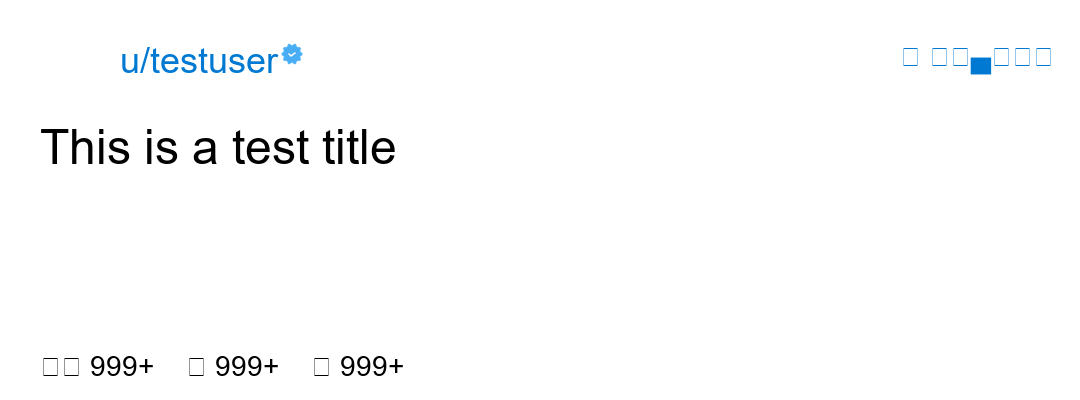
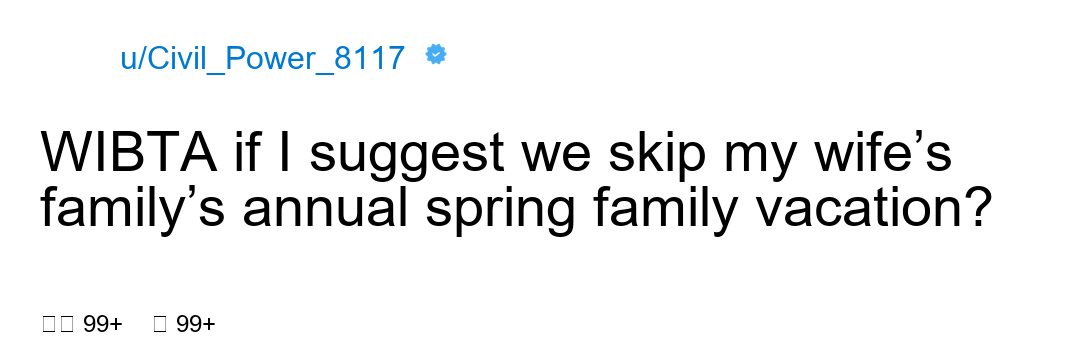
2025-04-19

diff --git a/src/media/graphic_gen.py b/src/media/graphic_gen.py
@@ -12,7 +12,7 @@ def clean_text(text):
 def generate_post_bubble(title, author, score, profile_pic_url=None, awards=[], filename="reddit_bubble.png"):
     title = clean_text(title)
     author = clean_text(author)
-    WIDTH, HEIGHT = 1080, 400
+    WIDTH, HEIGHT = 1080, 360
     BG_COLOUR = (255, 255, 255, 230)
     TEXT_COLOUR = (0, 0, 0)
     ACCENT = (0, 121, 211)
@@ -29,10 +29,9 @@ def generate_post_bubble(title, author, score, profile_pic_url=None, awards=[], 
             print(f"⚠ Font fallback: {font_name} failed ({e}), using default.")
             return ImageFont.load_default()
 
-    font_user = safe_font("arial.ttf", 36)
-    font_title = safe_font("arial.ttf", 48)
-    font_meta = safe_font("arial.ttf", 28)
-
+    font_user = safe_font("arial.ttf", 32)
+    font_title = safe_font("arial.ttf", 56)  # bolder, larger headline
+    font_meta = safe_font("arial.ttf", 24)  # slimmer meta row
     # Rounded rectangle background
     radius = 40
     draw.rounded_rectangle([0, 0, WIDTH, HEIGHT], radius=radius, fill=BG_COLOUR)
@@ -119,13 +118,52 @@ def generate_post_bubble(title, author, score, profile_pic_url=None, awards=[], 
         except Exception as e:
             print(f"⚠ Failed to load award icon: {e}")
 
-    # Likes / Comments / Shares
-    meta_text = "❤ 999+    💬 999+    🔁 999+"
+    # Likes / Comments
+    meta_text = "❤ 99+    💬 99+"
     draw.text((40, HEIGHT - 50), meta_text, fill=TEXT_COLOUR, font=font_meta)
 
-    # Audio bar (optional)
-    draw.text((WIDTH - 180, 40), "🔊 ▂▃▄▅▆▇", fill=ACCENT, font=font_meta)
 
     output_path.parent.mkdir(parents=True, exist_ok=True)
     img.save(output_path)
     return output_path.as_posix()
+
+
+import sys
+import os
+
+# Set TORCH_HOME to a directory inside your virtual environment
+os.environ["TORCH_HOME"] = os.path.join(os.path.dirname(sys.executable), "whisper_cache")
+
+from reddit.fetcher import fetch_top_story
+from media.graphic_gen import generate_post_bubble  # Generates graphic
+
+
+if __name__ == "__main__":
+    story = fetch_top_story()
+
+    if not story:
+        print("No suitable story found.")
+        exit()
+
+    print("🎉 Story Fetched:")
+    print(f"Title: {story['title']}")
+    print(f"By: u/{story['author']} ({story['score']} upvotes)")
+    print("-----")
+    print(story['text'])
+    print("🖼 Profile Pic URL:", story['profile_pic_url'])
+
+    try:
+        # Generate graphic
+        graphic_path = generate_post_bubble(
+            title=story['title'],
+            author=story['author'],
+            score=story['score'],
+            profile_pic_url=story['profile_pic_url'],
+            awards=story['awards']
+        )
+        print(f"🖼 Graphic saved to: {graphic_path}")
+    except Exception as e:
+        print("❌ Error generating graphic:")
+        import traceback
+
+        traceback.print_exc()

diff --git a/src/main.py b/src/main.py
@@ -7,16 +7,15 @@ os.environ["TORCH_HOME"] = os.path.join(os.path.dirname(sys.executable), "whispe
 from reddit.fetcher import fetch_top_story
 # from media.tts import generate_voiceover # replaced by elevenlabs
 from media.elevenlabs_tts import generate_voiceover  # text to speech
+# from media.f5_tts import generate_voiceover  # text to speech
 from media.graphic_gen import generate_post_bubble  # Generates graphic
 from media.get_output_filename import get_next_video_filename
 from media.audio_mixer import mix_audio_tracks  # added mix_audio_tracks
 from media.footage_fetcher import get_random_background  # Fetches background video, not working yet
 from media.music_fetcher import download_random_track  # needed for music, but doesn't work yet
 from media.ffmpeg_pipeline import ffmpeg_compose_video_with_subs  # ffmpeg final step, builds the video
-#from media.whisper_subtitle_generator import generate_subtitle_from_voiceover #ran out of free credits
-from media.vosk_subtitle_generator import generate_subtitle_from_voiceover
-
-
+from media.whisper_subtitle_generator import generate_subtitle_from_voiceover #ran out of free credits
+#from media.vosk_subtitle_generator import generate_subtitle_from_voiceover
 
 if __name__ == "__main__":
     story = fetch_top_story()
@@ -45,6 +44,7 @@ if __name__ == "__main__":
     except Exception as e:
         print("❌ Error generating graphic:")
         import traceback
+
         traceback.print_exc()
 
     # Generate voiceover
@@ -88,5 +88,3 @@ if __name__ == "__main__":
         print("🧹 Cleaned up temporary files.")
     except Exception as e:
         print("⚠ Failed to delete some temporary files:", e)
-
-

diff --git a/src/media/f5_tts.py b/src/media/f5_tts.py
@@ -1,0 +1,48 @@
+import subprocess, sys
+from pathlib import Path
+import soundfile as sf
+import resampy
+import wave
+
+BASE = Path(__file__).parent.parent / "media" / "output"
+BASE.mkdir(parents=True, exist_ok=True)
+
+def generate_voiceover(text: str):
+    temp = BASE / "voice_temp.wav"
+    final = BASE / "voiceover.wav"
+
+    # build cmd
+    cli = Path(sys.exec_prefix) / "Scripts" / "f5-tts_infer-cli.exe"
+    cmd = [str(cli),
+           "--gen_text", text,
+           "-w", str(temp),
+           "--vocoder_name", "vocos",
+           "--nfe_step", "20",
+           "--cfg_strength", "0.4",
+           "--cross_fade_duration", "0.02",
+           "--fix_duration", "1.0",
+           "--speed", "0.95"]
+
+    print("Running TTS CLI:", " ".join(cmd))
+    proc = subprocess.run(cmd, stdout=subprocess.PIPE, stderr=subprocess.PIPE, text=True)
+    print("TTS STDOUT:\n", proc.stdout)
+    print("TTS STDERR:\n", proc.stderr)
+    proc.check_returncode()
+
+    # quick WAV‐header check
+    print("Temp WAV:", temp.resolve(), "Exists?", temp.exists(), "Size:", temp.stat().st_size)
+    if temp.exists():
+        with wave.open(str(temp),"rb") as wf:
+            print(" >> nch:", wf.getnchannels(),
+                  "rate:", wf.getframerate(),
+                  "frames:", wf.getnframes())
+
+    # convert to mono16
+    data, sr = sf.read(str(temp))
+    if data.ndim>1: data = data.mean(axis=1)
+    data16 = resampy.resample(data, sr, 16000)
+    sf.write(str(final), data16, 16000, subtype="PCM_16")
+
+    # final check
+    print("Final WAV:", final.resolve(), "Size:", final.stat().st_size)
+    return str(final.resolve())

diff --git a/src/reddit/fetcher.py b/src/reddit/fetcher.py
@@ -2,7 +2,7 @@ import praw
 import requests
 from utils import config
 
-def fetch_top_story(subreddit="AmItheAsshole", min_upvotes=100, min_length=300, max_length=500):
+def fetch_top_story(subreddit="AmItheAsshole", min_upvotes=100, min_length=10, max_length=200):
     reddit = praw.Reddit(
         client_id=config.REDDIT_CLIENT_ID,
         client_secret=config.REDDIT_CLIENT_SECRET,
@@ -45,7 +45,7 @@ def fetch_top_story(subreddit="AmItheAsshole", min_upvotes=100, min_length=300, 
 
         return {
             "title": submission.title,
-            "text": story_text,
+            "text": submission.title + ', ' + story_text,
             "author": author_name,
             "score": submission.score,
             "profile_pic_url": profile_pic_url,

diff --git a/src/media/vosk_subtitle_generator.py b/src/media/vosk_subtitle_generator.py
@@ -7,6 +7,7 @@ from vosk import Model, KaldiRecognizer
 
 # Path to your Vosk model directory (download from https://alphacephei.com/vosk/models)
 VOSK_MODEL_PATH = os.environ.get("VOSK_MODEL_PATH", "models/vosk-model-small-en-us-0.15")
+print(VOSK_MODEL_PATH)
 # Maximum words per subtitle chunk and wrap width
 MAX_WORDS = 7
 WRAP_WIDTH = 40
